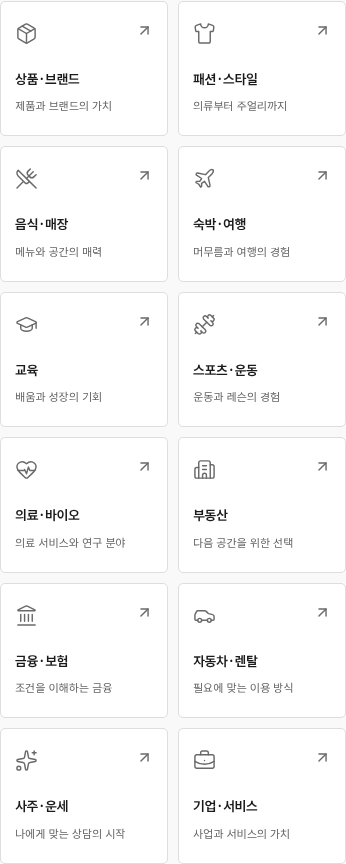
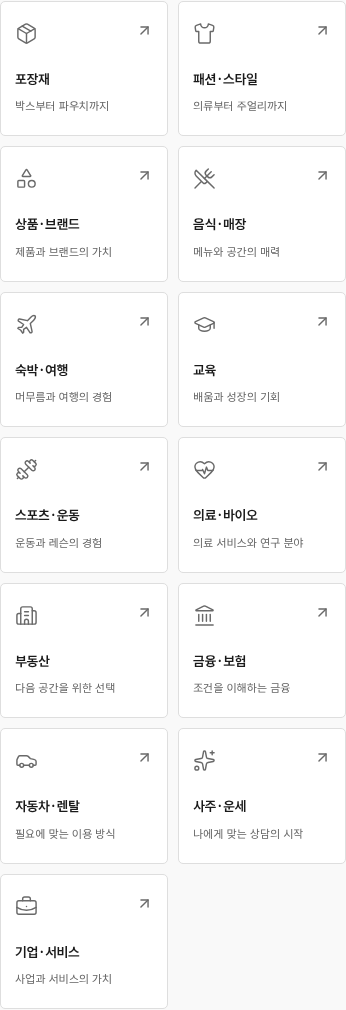
Separate packaging into seven product categories

diff --git a/src/industry.ts b/src/industry.ts
@@ -1,6 +1,6 @@
 // Stable leaf IDs keep saved projects compatible while the UI groups choices visually.
 export const productCategories = [
-  ['packaging', '포장재'], ['food', '식품·음료'], ['beauty', '뷰티·생활용품'],
+  ['packaging', '기타'], ['food', '식품·음료'], ['beauty', '뷰티·생활용품'],
   ['electronics', '전자제품'], ['fashion', '의류·패션'], ['home', '가구·인테리어'],
   ['industrial', '산업용 부품·장비'], ['automotive', '자동차·모빌리티'],
   ['education', '교육·강의'], ['insurance', '보험'], ['services', '서비스 업종'], ['other', '기타 실물 상품'],
@@ -13,6 +13,7 @@ export const productCategories = [
   ['corporate', '기업 홍보'],
   ['tarot', '타로'], ['astrology', '별자리'], ['myeongri', '명리학'], ['sinjeom', '신점'],
   ['bags', '가방'], ['shoes', '신발'], ['jewelry', '주얼리'], ['accessories', '패션잡화'],
+  ['boxes', '박스'], ['shoppingbags', '쇼핑백'], ['labels', '라벨'], ['containers', '용기'], ['plasticfilm', '비닐'], ['pouches', '파우치'],
 ] as const;
 export type ProductCategory = typeof productCategories[number][0];
 const legacyCategories:Readonly<Record<string,ProductCategory>>={saju:'myeongri',fortunehouse:'myeongri',divination:'sinjeom'};
@@ -20,11 +21,12 @@ export function resolveIndustryCategory(value:unknown):ProductCategory|undefined
   const category=typeof value==='string'?(legacyCategories[value]??value):undefined;
   return productCategories.find(([id])=>id===category)?.[0];
 }
-export type IndustryGroupId = 'products'|'fashion'|'dining'|'travel'|'learning'|'sports'|'health'|'property'|'finance'|'mobility'|'fortune'|'business';
+export type IndustryGroupId = 'packaging'|'products'|'fashion'|'dining'|'travel'|'learning'|'sports'|'health'|'property'|'finance'|'mobility'|'fortune'|'business';
 export type IndustryGroup = {id:IndustryGroupId;label:string;description:string;categoryIds:readonly ProductCategory[]};
 export const industryGroups:readonly IndustryGroup[] = [
-  {id:'products',label:'상품·브랜드',description:'제품과 브랜드의 가치',categoryIds:['packaging','food','beauty','electronics','home','industrial','other']},
+  {id:'packaging',label:'포장재',description:'박스부터 파우치까지',categoryIds:['boxes','shoppingbags','labels','containers','plasticfilm','pouches','packaging']},
   {id:'fashion',label:'패션·스타일',description:'의류부터 주얼리까지',categoryIds:['fashion','bags','shoes','jewelry','accessories']},
+  {id:'products',label:'상품·브랜드',description:'제품과 브랜드의 가치',categoryIds:['food','beauty','electronics','home','industrial','other']},
   {id:'dining',label:'음식·매장',description:'메뉴와 공간의 매력',categoryIds:['restaurant','cafe']},
   {id:'travel',label:'숙박·여행',description:'머무름과 여행의 경험',categoryIds:['lodging','travel']},
   {id:'learning',label:'교육',description:'배움과 성장의 기회',categoryIds:['education']},
@@ -36,7 +38,7 @@ export const industryGroups:readonly IndustryGroup[] = [
   {id:'fortune',label:'사주·운세',description:'나에게 맞는 상담의 시작',categoryIds:['tarot','astrology','myeongri','sinjeom']},
   {id:'business',label:'기업·서비스',description:'사업과 서비스의 가치',categoryIds:['services','corporate']},
 ];
-const physicalCategories:readonly ProductCategory[] = ['packaging','food','beauty','electronics','fashion','home','industrial','other','automotive','bags','shoes','jewelry','accessories'];
+const physicalCategories:readonly ProductCategory[] = ['packaging','food','beauty','electronics','fashion','home','industrial','other','automotive','bags','shoes','jewelry','accessories','boxes','shoppingbags','labels','containers','plasticfilm','pouches'];
 export const isPhysicalCategory = (category:ProductCategory) => physicalCategories.includes(category);
 export function industryGroupFor(category:ProductCategory):IndustryGroup {
   return industryGroups.find(group=>group.categoryIds.includes(category))!;
@@ -50,10 +52,40 @@ type IndustryContent = {placeholder:string;audience:string;directions:readonly [
 // These are editable starting directions, not inferred facts about a business.
 // Prices, outcomes, clinical effects and investment returns are never fabricated.
 const content:Record<ProductCategory,IndustryContent> = {
-  packaging:{placeholder:'예: 크라프트 택배박스',audience:'포장 방식과 발주 조건을 비교하는 고객',directions:[
+  packaging:{placeholder:'예: 기타 포장재 이름',audience:'포장 방식과 발주 조건을 비교하는 고객',directions:[
     ['브랜드 소개','소재와 브랜드의 분위기','제품을 담는 브랜드의 방식','제품 보기'],
     ['제품 안내','규격과 사용 목적 소개','필요한 포장을 만나보세요','제품 문의'],
     ['디테일 소개','제공한 소재·구조 정보','선택에 필요한 포장 정보','상세 정보 보기'],
+  ]},
+  boxes:{placeholder:'예: 크라프트 택배박스',audience:'박스의 형태·규격·인쇄와 발주 조건을 비교하는 고객',directions:[
+    ['브랜드 소개','박스와 브랜드의 분위기','제품을 담는 우리 브랜드의 방식','박스 보기'],
+    ['제품·제작 안내','박스의 용도와 제작 옵션','제품에 어울리는 박스를 만나보세요','제작 문의'],
+    ['규격·소재 안내','제공한 크기·소재·인쇄 정보','발주 전에 살펴보는 박스 정보','제품 정보 보기'],
+  ]},
+  shoppingbags:{placeholder:'예: 로고 인쇄 종이 쇼핑백',audience:'쇼핑백의 소재·크기·인쇄와 제작 조건을 비교하는 고객',directions:[
+    ['브랜드 소개','쇼핑백과 브랜드의 분위기','브랜드의 이야기를 담아 전하세요','쇼핑백 보기'],
+    ['제품·제작 안내','쇼핑백의 사용 장면과 제작 옵션','우리 브랜드에 어울리는 쇼핑백','제작 문의'],
+    ['규격·소재 안내','제공한 크기·소재·손잡이 정보','선택 전에 살펴보는 쇼핑백 디테일','상세 정보 보기'],
+  ]},
+  labels:{placeholder:'예: 브랜드 로고 스티커 라벨',audience:'라벨의 형태·소재·인쇄와 부착 용도를 비교하는 고객',directions:[
+    ['브랜드 소개','라벨 디자인과 브랜드의 분위기','작은 라벨에 담는 브랜드의 인상','라벨 보기'],
+    ['제품·제작 안내','라벨의 사용 목적과 인쇄 옵션','제품에 어울리는 라벨을 만나보세요','제작 문의'],
+    ['규격·소재 안내','제공한 크기·소재·부착 정보','제작 전에 살펴보는 라벨 정보','제작 정보 보기'],
+  ]},
+  containers:{placeholder:'예: 브랜드 유리 용기',audience:'용기의 형태·소재·규격과 사용 목적을 비교하는 고객',directions:[
+    ['브랜드 소개','용기와 제품의 분위기','담는 방식에서 시작하는 브랜드','용기 보기'],
+    ['제품 안내','용기의 사용 장면과 구성','제품에 맞는 용기를 만나보세요','제품 문의'],
+    ['규격·소재 안내','제공한 치수·소재·용량 정보','선택 전에 살펴보는 용기 디테일','제품 정보 보기'],
+  ]},
+  plasticfilm:{placeholder:'예: 제품 포장용 비닐',audience:'비닐의 소재·크기·두께와 인쇄 조건을 비교하는 고객',directions:[
+    ['브랜드 소개','비닐 포장과 브랜드의 분위기','제품을 전하는 포장의 한 가지 방식','비닐 포장재 보기'],
+    ['제품·제작 안내','포장 용도와 제작 옵션','용도에 맞는 비닐 포장을 만나보세요','제작 문의'],
+    ['규격·소재 안내','제공한 크기·소재·두께 정보','발주 전에 살펴보는 비닐 포장 정보','상세 정보 보기'],
+  ]},
+  pouches:{placeholder:'예: 지퍼형 스탠딩 파우치',audience:'파우치의 형태·소재·크기와 마감 방식을 비교하는 고객',directions:[
+    ['브랜드 소개','파우치와 브랜드의 분위기','제품의 인상을 담는 파우치','파우치 보기'],
+    ['제품·제작 안내','파우치의 사용 장면과 제작 옵션','제품에 어울리는 파우치를 만나보세요','제작 문의'],
+    ['규격·소재 안내','제공한 크기·소재·마감 정보','선택 전에 살펴보는 파우치 디테일','제품 정보 보기'],
   ]},
   food:{placeholder:'예: 브랜드 그래놀라',audience:'원재료와 제품 정보를 확인하는 식품 구매 고객',directions:[
     ['브랜드 소개','제품과 식탁의 분위기','식탁에 더하는 새로운 선택','브랜드 보기'],

diff --git a/tests/industries.spec.ts b/tests/industries.spec.ts
@@ -20,14 +20,17 @@ async function serviceWizard(page:Page,category:string,name:string,creative=fals
  await wizard.getByRole('button',{name:'다음',exact:true}).click();return wizard;
 }
 
-test('twelve visual groups expose fashion directly and all forty-two industries are searchable',async({page})=>{
+test('thirteen visual groups expose packaging and fashion directly and all forty-eight industries are searchable',async({page})=>{
  test.setTimeout(60000);await page.goto('/');
- await expect(page.locator('.business-options').getByRole('button')).toHaveCount(12);
+ await expect(page.locator('.business-options').getByRole('button')).toHaveCount(13);
+ await expect(page.locator('.business-options').getByRole('button').nth(0)).toHaveAccessibleName('포장재 업종으로 광고 만들기');
  await expect(page.locator('.business-options').getByRole('button').nth(1)).toHaveAccessibleName('패션·스타일 업종으로 광고 만들기');
  await page.getByRole('button',{name:'패션·스타일 업종으로 광고 만들기',exact:true}).click();
  const wizard=page.locator('.create-page:visible'),picker=wizard.getByRole('group',{name:'업종 선택',exact:true});
  await expect(picker.getByRole('group',{name:'패션·스타일 세부 업종',exact:true}).getByRole('button')).toHaveText(['의류·패션','가방','신발','주얼리','패션잡화']);
- await expect(picker.getByRole('group',{name:'업종 그룹',exact:true}).getByRole('button')).toHaveCount(12);
+ await expect(picker.getByRole('group',{name:'업종 그룹',exact:true}).getByRole('button')).toHaveCount(13);
+ await picker.getByRole('button',{name:'포장재 업종 그룹',exact:true}).click();
+ await expect(picker.getByRole('group',{name:'포장재 세부 업종',exact:true}).getByRole('button')).toHaveText(['박스','쇼핑백','라벨','용기','비닐','파우치','기타']);
  for(const group of industryGroups){
   await picker.getByRole('button',{name:group.label+' 업종 그룹',exact:true}).click();
   const options=picker.getByRole('group',{name:group.label+' 세부 업종',exact:true});

diff --git a/src/IndustryPicker.tsx b/src/IndustryPicker.tsx
@@ -1,11 +1,11 @@
 import {useEffect,useId,useRef,useState} from 'react';
-import {ArrowRight,BriefcaseBusiness,Building2,Car,Check,ChevronDown,Dumbbell,GraduationCap,HeartPulse,Landmark,Package,Plane,Search,Shirt,Sparkles,UtensilsCrossed,X} from 'lucide-react';
+import {ArrowRight,BriefcaseBusiness,Building2,Car,Check,ChevronDown,Dumbbell,GraduationCap,HeartPulse,Landmark,Package,Plane,Search,Shapes,Shirt,Sparkles,UtensilsCrossed,X} from 'lucide-react';
 import type {LucideIcon} from 'lucide-react';
 import {industryGroups,industryGroupFor,industryLabel,productCategories} from './industry';
 import type {ProductCategory} from './product';
 import './industry-picker.css';
 
-export const industryGroupIcons:Record<string,LucideIcon>={products:Package,fashion:Shirt,dining:UtensilsCrossed,travel:Plane,learning:GraduationCap,sports:Dumbbell,health:HeartPulse,property:Building2,finance:Landmark,mobility:Car,fortune:Sparkles,business:BriefcaseBusiness};
+export const industryGroupIcons:Record<string,LucideIcon>={packaging:Package,products:Shapes,fashion:Shirt,dining:UtensilsCrossed,travel:Plane,learning:GraduationCap,sports:Dumbbell,health:HeartPulse,property:Building2,finance:Landmark,mobility:Car,fortune:Sparkles,business:BriefcaseBusiness};
 export function IndustryIcon({groupId,size=22}:{groupId:string;size?:number}){const Icon=industryGroupIcons[groupId]??BriefcaseBusiness;return <Icon size={size} strokeWidth={1.5} aria-hidden="true"/>;}
 type Props={value:ProductCategory;onChange:(category:ProductCategory)=>void;compact?:boolean};
 const normalize=(text:string)=>text.toLocaleLowerCase().replace(/[\s·・,\-]/g,'');

diff --git a/docs/industry-advertising.md b/docs/industry-advertising.md
@@ -2,12 +2,13 @@
 
 ## 선택 화면
 
-홈과 새 광고 만들기에 대표 업종 12개를 카드로 배치했다. 패션·스타일은 첫 줄의 독립 카드로 바로 찾을 수 있다. 선택한 그룹의 세부 업종만 펼쳐지며 검색으로 바로 선택할 수도 있다. 편집기의 업종 선택은 현재 선택한 업종 행으로 접어 두고 필요할 때 변경한다. 긴 전체 목록을 상시 표시하지 않는다.
+홈과 새 광고 만들기에 대표 업종 13개를 카드로 배치했다. 포장재와 패션·스타일을 첫 줄의 독립 카드로 배치하고, 포장재 → 패션·스타일 → 상품·브랜드 순서로 바로 찾을 수 있게 했다. 선택한 그룹의 세부 업종만 펼쳐지며 검색으로 바로 선택할 수도 있다. 편집기의 업종 선택은 현재 선택한 업종 행으로 접어 두고 필요할 때 변경한다. 긴 전체 목록을 상시 표시하지 않는다.
 
 | 대표 그룹 | 세부 업종 |
 |---|---|
-| 상품·브랜드 | 포장재, 식품·음료, 뷰티·생활용품, 전자제품, 가구·인테리어, 산업용 부품·장비, 기타 실물 상품 |
+| 포장재 | 박스, 쇼핑백, 라벨, 용기, 비닐, 파우치, 기타 |
 | 패션·스타일 | 의류·패션, 가방, 신발, 주얼리, 패션잡화 |
+| 상품·브랜드 | 식품·음료, 뷰티·생활용품, 전자제품, 가구·인테리어, 산업용 부품·장비, 기타 실물 상품 |
 | 음식·매장 | 음식점, 카페·디저트 |
 | 숙박·여행 | 호텔·숙박, 여행 |
 | 교육 | 교육·강의 |
@@ -19,11 +20,13 @@
 | 기업·서비스 | 서비스 업종, 기업 홍보 |
 | 사주·운세 | 타로, 별자리, 명리학, 신점 |
 
-총 42개 분류이며, 위 표는 개발·검토용 전체 목록이다. 앱에서는 그룹과 선택한 세부 업종으로 나누어 보여준다. 패션·스타일 카드는 의류·패션, 가방, 신발, 주얼리, 패션잡화 다섯 가지로 구분한다. 사주·운세 카드를 열면 타로·별자리·명리학·신점 네 가지를 선택할 수 있다.
+총 48개 분류이며, 위 표는 개발·검토용 전체 목록이다. 앱에서는 그룹과 선택한 세부 업종으로 나누어 보여준다. 패션·스타일 카드는 의류·패션, 가방, 신발, 주얼리, 패션잡화 다섯 가지로 구분한다. 사주·운세 카드를 열면 타로·별자리·명리학·신점 네 가지를 선택할 수 있다.
 
 ## 요청문 없이 고르는 제작 방향
 
 새 제작은 업종과 이름 → 사진·정보 → 광고 방향으로 이어진다. 업종별 목적 카드 3개와 공통 시각 스타일 4개를 제공한다. 목적의 이름·문구·행동 안내는 업종에 맞게 바뀐다. 예를 들어 음식점은 매장 소개/방문·예약 안내/메뉴 이야기, 필라테스는 스튜디오 소개/수업·체험 안내/프로그램 소개, 은행은 은행·서비스 소개/이용·상담 안내/상품·조건 안내를 고른다.
+
+포장재의 일곱 분야는 브랜드·제품 소개, 규격·소재 안내 등 대상에 맞는 방향을 고를 수 있다. 사진을 다시 그리지 않고 원본 사진과 규격 사용·표시 선택을 유지한다.
 
 패션·스타일의 다섯 분야는 컬렉션·제품 소개와 소재·디테일 등 대상에 맞는 방향을 고를 수 있다. 자유 요청을 작성하지 않아도 추천 방향과 스타일 선택으로 시작한다.
 
@@ -37,13 +40,13 @@
 
 ## 상품·서비스·규격
 
-서비스 29종은 사진과 규격 없이 시작할 수 있다. 실물 상품 12종과 자동차는 원본 사진으로 직접 구성할 때 사진이 필요하다. 실제 음식 제품은 ‘식품·음료’, 음식점·메뉴·매장 안내는 ‘음식점’처럼 광고 대상에 맞춰 선택한다.
+서비스 29종은 사진과 규격 없이 시작할 수 있다. 실물 상품 18종과 자동차는 원본 사진으로 직접 구성할 때 사진이 필요하다. 실제 음식 제품은 ‘식품·음료’, 음식점·메뉴·매장 안내는 ‘음식점’처럼 광고 대상에 맞춰 선택한다.
 
 모든 업종에서 필요한 경우 규격 정보 사용을 켜고 형식과 표시 여부를 선택할 수 있다. 현재 치수 입력은 실물의 mm 치수다. 부동산 면적·이용 기간·수량·요금 등 다른 단위의 사업 정보는 서비스 소개나 추가 속성으로 입력한다. 업종을 서비스로 바꾸면 규격 사용·표시를 끄되 기존 치수 값과 사진·문구를 지우지 않는다. 원본 보존/창작 선택과 규격 표시 선택은 별도로 유지한다.
 
 ## 저장과 생성 요청
 
-기존 프로젝트 형식을 유지하며 패션의 기존 분류 ID `fashion`도 유지한다. 기존 패션 프로젝트는 패션·스타일 그룹의 의류·패션으로 열리고 사진·문구·규격 등 저장 정보는 그대로 보존한다. 이전 사주·궁합과 철학관 프로젝트는 명리학으로, 점·무속 프로젝트는 신점으로 복원한다. JSON 가져오기와 기기 저장본 복원에 적용하며 기존 사진·문구·규격은 유지한다. `campaign.creative`에 목적 ID·스타일 ID·선택 입력을 보관하고, 이전 프로젝트에는 이 필드가 없어도 열린다. 기기 저장·JSON 백업·복원과 생성 기획 내보내기에 포함한다.
+기존 프로젝트 형식을 유지한다. 기존 포장재 분류 ID `packaging`은 포장재 그룹의 기타로 유지하고 사진·문구·치수와 규격 사용·표시 설정을 보존한다. 저장된 사진에서 박스 등 세부 유형을 자동 판정하지 않으며 사용자가 필요하면 다시 선택한다. 새 세부 분류 ID는 `boxes`, `shoppingbags`, `labels`, `containers`, `plasticfilm`, `pouches`다. 패션의 기존 분류 ID `fashion`도 유지한다. 기존 패션 프로젝트는 패션·스타일 그룹의 의류·패션으로 열리고 사진·문구·규격 등 저장 정보는 그대로 보존한다. 이전 사주·궁합과 철학관 프로젝트는 명리학으로, 점·무속 프로젝트는 신점으로 복원한다. JSON 가져오기와 기기 저장본 복원에 적용하며 기존 사진·문구·규격은 유지한다. `campaign.creative`에 목적 ID·스타일 ID·선택 입력을 보관하고, 이전 프로젝트에는 이 필드가 없어도 열린다. 기기 저장·JSON 백업·복원과 생성 기획 내보내기에 포함한다.
 
 생성 기획에는 업종 그룹·세부 업종·목적·시각 스타일 참고·현재 확정된 배경과 글자색·추가 지시를 함께 넣는다. 사용자가 나중에 직접 바꾼 화면 정보가 스타일의 참고 색상보다 우선한다. 상품 원본·치수·언어·고객이 제공한 사실 정보를 별도로 유지한다. 제품 효능·임상 결과·투자 수익·금리·가격·인증 등을 입력 사실 없이 만들지 않는 조건도 포함한다. 실제 모델의 이 조건 준수는 공급사 연결 후 추가 검증해야 한다.
 

diff --git a/docs/validation.md b/docs/validation.md
@@ -164,3 +164,10 @@
 - 기존 `fashion` ID와 저장된 문구·사진·규격은 유지했다. 새 패션 분류는 실물 상품으로 다루며 원본 방식에서는 사진을 요구한다. 규격은 기존처럼 선택 사항이다.
 - 관련 도메인 검사 14개(`industry`, `creative`), PC·모바일 업종 검사 10개가 모두 통과했다. 홈 두 번째 카드에서 패션으로 직접 시작, 5개 세부 업종, 42개 업종 검색, 저장/복원·실물 사진 요구·PNG 출력과 모바일 폭을 확인했다. 변경과 무관한 전체 검사 파일은 재실행하지 않았다.
 - TypeScript·Vite·단일 HTML 빌드 성공. 독립 HTML에서 홈의 패션 카드와 PC·모바일 업종 선택 화면을 캡처해 `fashion-home-mobile.png`, `industry-picker-*`, `fortune-industry-mobile.png`를 갱신했다. 실제 AI 연결·공개 앱 배포는 수행하지 않았다.
+
+## 포장재 독립 카드와 일곱 세부 분류 — 2026-10-09
+
+- 포장재를 홈·업종 선택 목록의 첫 번째 독립 카드로 옮기고, 바로 옆에 패션·스타일을 유지했다. 세부 선택은 박스·쇼핑백·라벨·용기·비닐·파우치·기타 순서다. 전체 13개 그룹·48개 업종, 서비스 29종·실물 19종이다.
+- 여섯 새 분류에 브랜드/제품 소개·제작 문의·규격과 소재 안내를 연결했다. 이전 `packaging` ID는 포장재의 기타로 유지하며 기존 사진·문구·치수·표시 선택을 바꾸지 않는다. 새 분류도 실물 사진 요구와 선택적 규격을 따른다.
+- 관련 도메인 검사 14개(`industry`, `creative`), PC·모바일 업종 검사 10개가 모두 통과했다. 첫 번째 포장재 카드, 일곱 항목의 순서, 48개 업종 검색, 원본 사진 요구·저장/복원·PNG 출력·모바일 폭을 확인했다. 변경과 무관한 전체 검사 파일은 재실행하지 않았다.
+- TypeScript·Vite·단일 HTML 빌드 성공. 독립 HTML에서 홈과 업종 선택 화면을 확인해 `fashion-home-mobile.png`, `industry-picker-*`, `fortune-industry-mobile.png`를 갱신했다. 실제 AI 연결·공개 앱 배포는 수행하지 않았다.

diff --git a/docs/funding-technical-brief.md b/docs/funding-technical-brief.md
@@ -33,7 +33,7 @@
 
 - 모바일/PC 반응형 홈, 3단계 제작, 프로젝트 목록·검색, 사용 안내, 편집 화면.
 - 상품 사진 원본 바이트·SHA-256·화면비 보존, 한/영 문구 직접 편집, 배경 변경.
-- 12개 그룹·42개 업종 카드 선택, 업종별 광고 방향과 스타일 추천, 선택적 규격. 첫 줄의 패션·스타일 독립 카드에서 의류·패션·가방·신발·주얼리·패션잡화를 선택하고 컬렉션·제품·소재·디테일에 맞는 광고 방향을 고른다. 사주·운세 카드에서는 타로·별자리·명리학·신점을 구분해 선택하고 소개·상담 예약·이용 정보를 안내한다.
+- 13개 그룹·48개 업종 카드 선택, 업종별 광고 방향과 스타일 추천, 선택적 규격. 첫 번째 포장재 독립 카드에서는 박스·쇼핑백·라벨·용기·비닐·파우치·기타를 선택하고 브랜드·제품 소개와 규격·소재 안내 방향을 고른다. 원본 사진과 규격 사용·표시 선택은 유지한다. 첫 줄의 패션·스타일 독립 카드에서 의류·패션·가방·신발·주얼리·패션잡화를 선택하고 컬렉션·제품·소재·디테일에 맞는 광고 방향을 고른다. 사주·운세 카드에서는 타로·별자리·명리학·신점을 구분해 선택하고 소개·상담 예약·이용 정보를 안내한다.
 - 대화 요청 보관·수정 범위 선택·확인 후 빠른 편집·대화 백업. 실제 AI 대화는 연결 전.
 - 정면 사진에서 사용자 지정 두 변과 규격 비례 비교. 실물 전체의 3D 재현은 아님.
 - 7개 광고 비율의 PNG 출력, IndexedDB 기기 저장, 프로젝트 JSON 백업·복원.

diff --git a/README.md b/README.md
@@ -18,7 +18,9 @@
 
 ## 업종별 광고 방향과 프리미엄 스타일
 
-**12개 업종 카드 → 선택한 그룹의 세부 업종 → 광고 방향**으로 고릅니다. 패션·음식점·식품·숙박·여행·리스/렌탈·교육·운동·병원·바이오·부동산·금융/보험·사주/운세 등 총 42개 분류를 제공합니다. 편집기에서는 업종 선택을 접어두고 검색하거나 변경할 수 있습니다.
+**13개 업종 카드 → 선택한 그룹의 세부 업종 → 광고 방향**으로 고릅니다. 포장재·패션·음식점·식품·숙박·여행·리스/렌탈·교육·운동·병원·바이오·부동산·금융/보험·사주/운세 등 총 48개 분류를 제공합니다. 편집기에서는 업종 선택을 접어두고 검색하거나 변경할 수 있습니다.
+
+**포장재**는 홈과 업종 선택 화면의 첫 번째 독립 카드입니다. **박스·쇼핑백·라벨·용기·비닐·파우치·기타** 중 고르고 브랜드·제품 소개나 규격·소재 안내 방향을 선택합니다. 기존 포장재 프로젝트는 포장재 그룹의 기타로 열리며 사진·문구·규격 설정을 유지합니다.
 
 **패션·스타일**은 홈과 업종 선택 화면 첫 줄의 독립 카드로 바로 찾을 수 있습니다. 의류·패션, 가방, 신발, 주얼리, 패션잡화 중 고르고 컬렉션·제품 소개나 소재·디테일에 맞는 광고 방향을 선택합니다. 기존 패션 프로젝트의 사진·문구·규격 등 저장 정보는 유지합니다.
 
